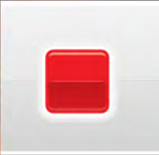
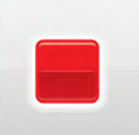
asd

Changed region(s): [[0.2302, 0.2667, 0.777, 0.8296], [0.0, 0.0, 1.0, 1.0]]

diff --git a/index.html b/index.html
@@ -74,8 +74,8 @@ position:absolute;
 }
 
 .pitanje:hover, .pitanje:active {
-	background:url('crveni.png') no-repeat 0 0;
-	background-size: 79.5px 77.5px;
+	background:url('crveni.png') no-repeat 5px 5px;
+	background-size: 69.5px 67.5px;
     background-repeat: no-repeat;
 	display:block;
 }
